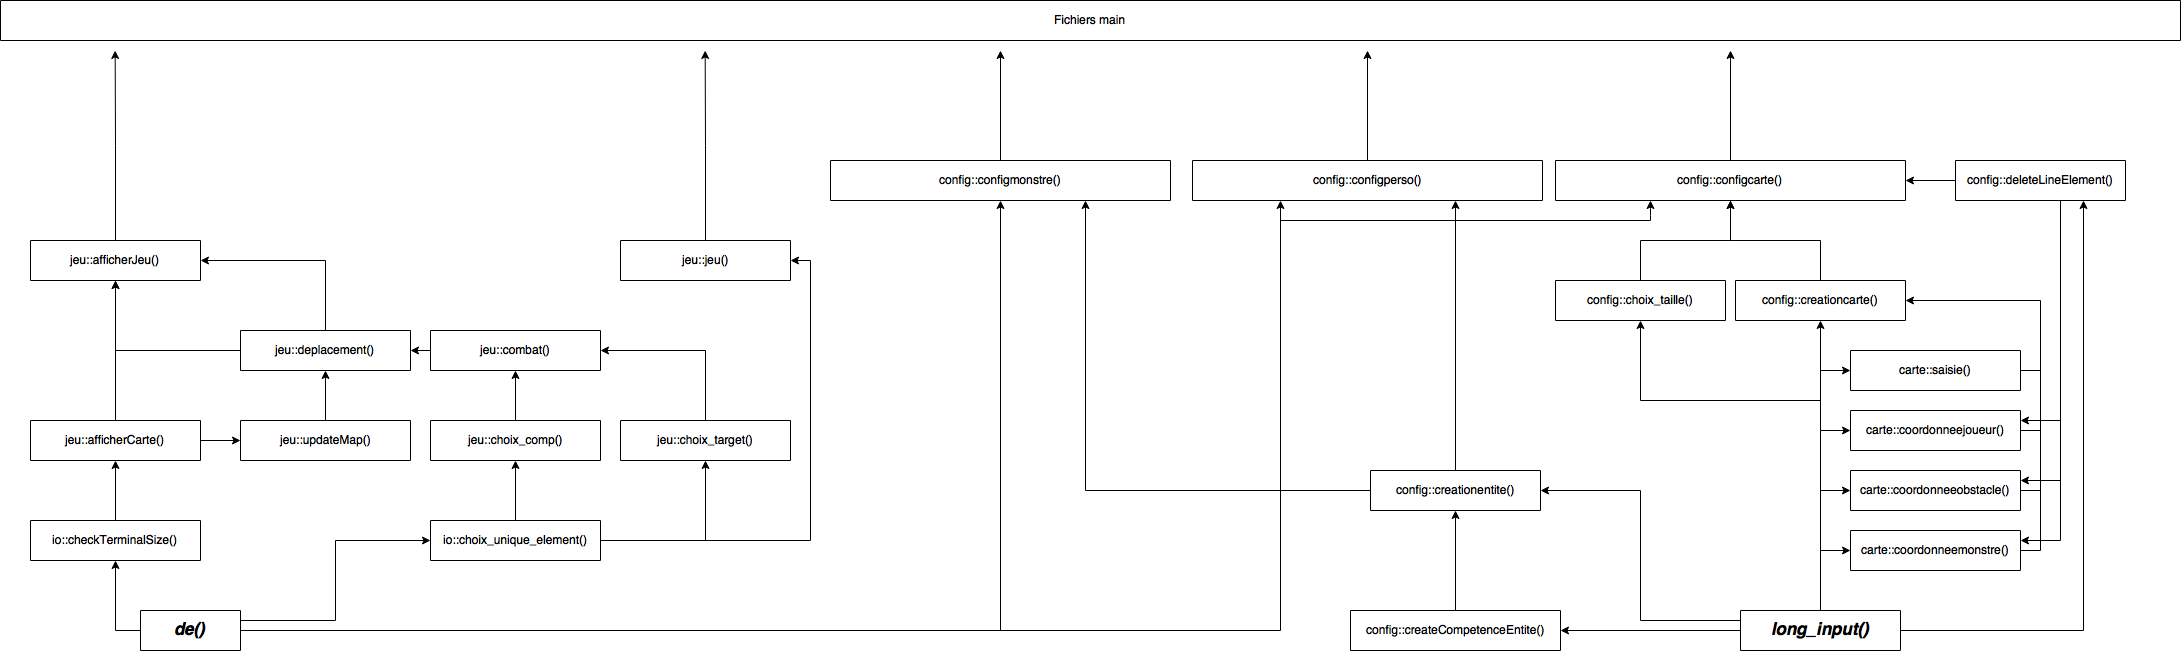
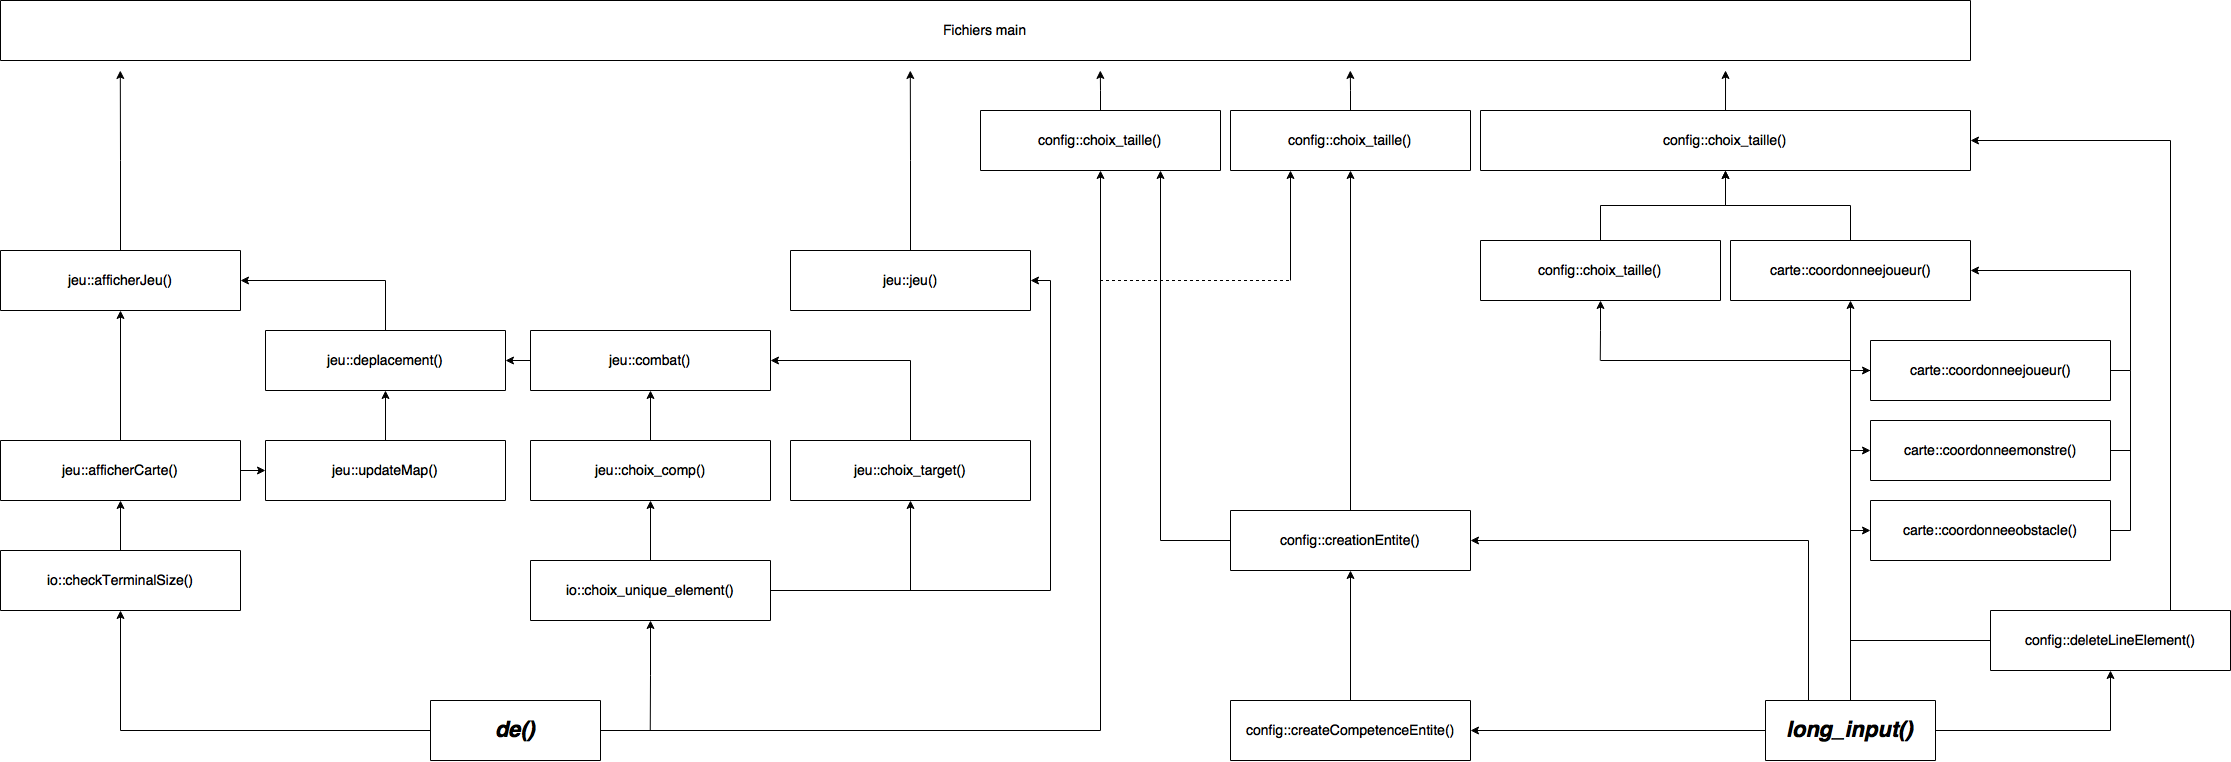
graphe, combat, et shenanigans
interface de combat dans bandeau à 50-60%

diff --git a/sources/io.cpp b/sources/io.cpp
@@ -234,8 +234,6 @@ namespace io
 				TermPosX++;
 				displayX++;
 			}
-			if (displayX == t && TermPosX != TermWidth-1)
-				std::cout << RED << "$" << BLANK;
 			while (TermPosX < TermWidth - 1)
 			{
 				std::cout << ' ';
@@ -252,6 +250,7 @@ namespace io
 
 	void updateMap(Carte& jeu_carte, std::pair<int,int> newPlayerPos)
 	{
+		// Si le joueur sort des "barrières" de la map affichée
 		if (    newPlayerPos.first >= mapPositionY + TermHeight - 6
 			|| newPlayerPos.first < mapPositionY
 			|| newPlayerPos.second >= mapPositionX + TermWidth
@@ -270,6 +269,7 @@ namespace io
 			}
 			return;
 		}
+		jeu_carte.echangerContenuCase(currentPlayerPosition.first, currentPlayerPosition.second, newPlayerPos.second, newPlayerPos.first);
 		printf("\033[0;0H");
 		if (currentPlayerPosition.second != mapPositionY)
 			printf("\033[%iB", currentPlayerPosition.second - mapPositionY);
@@ -284,7 +284,6 @@ namespace io
 		if (newPlayerPos.second == mapPositionX)
 			printf("\033[1D");
 		cout << RED << 'X' << BLANK << flush;
-		jeu_carte.echangerContenuCase(currentPlayerPosition.first, currentPlayerPosition.second, newPlayerPos.second, newPlayerPos.first);
 		currentPlayerPosition.first = newPlayerPos.second;
 		currentPlayerPosition.second = newPlayerPos.first;
 		return;
@@ -406,6 +405,43 @@ namespace io
 		printf("\033[%dC", TermWidth/2);	// Droite de TermWidth-2 cases
 	}
 
+	void updateMessage(std::string nouveauMessage, int pos)
+	{
+		if (pos <= 0 || pos > 4)
+			pos = 3;
+		// Variables utilisées ici
+		int messagePositionY = TermHeight-5+pos;
+		char delimiteur = '%';
+		std::string couleurDelimiteur = BLUE;
+
+		if (nouveauMessage.size() > TermWidth-2)
+			nouveauMessage = nouveauMessage.substr(0,TermWidth - 5)+"...";
+
+		int deplacementNecessaire = TermWidth - 2 - nouveauMessage.size();
+
+		// On remet le curseur au debut du terminal
+		// printf("\033[1;1H");
+		// On descend jusqu'à la ligne demandée
+		printf("\033[%i;1H", messagePositionY);
+
+		// On affiche
+		cout << couleurDelimiteur;
+		cout << delimiteur;
+		cout << BLANK;
+		cout << std::string(deplacementNecessaire/2, ' ');
+		cout << nouveauMessage;
+		cout << std::string(deplacementNecessaire/2 + deplacementNecessaire%2, ' ');
+		cout << couleurDelimiteur;
+		cout << delimiteur;
+		cout << BLANK;
+		cout << '\r';
+
+		// On remet le curseur au milieu du message
+		printf("\033[%d;1H", TermHeight);
+		printf("\033[2A");
+		printf("\033[%dC", TermWidth/2);
+	}
+
 	void checkTerminalSize()
 	{
 		// Met à jour la taille du terminal
@@ -488,7 +524,9 @@ namespace io
 		{
 			if (vect_entite[i].is_personnage())
 			{
-				vect_entite[i].afficher_combat();
+				std::pair<std::string,std::string> res = vect_entite[i].afficher_combat();
+				updateMessage(res.first,1);
+				updateMessage(res.second,2);
 			}
 		}
 
@@ -496,7 +534,9 @@ namespace io
 		{
 			if (!vect_entite[i].is_personnage())
 			{
-				vect_entite[i].afficher_combat();
+				std::pair<std::string,std::string> res = vect_entite[i].afficher_combat();
+				updateMessage(res.first,3);
+				updateMessage("Choisissez une action avec [1-4]",4);
 			}
 		}
 	}

diff --git a/sources/fonctionsjeu.cpp b/sources/fonctionsjeu.cpp
@@ -220,21 +220,29 @@ void jeu::deplacement(int & result)
 	}
 
 	///Combat, à tester
-//	string content = jeu_carte.getPlateau()[x][y];
-//
-//	cout << "contenu case: " << content << "\n";
-//
-//	if (content.substr(0, 1) == "m")
-//	{
-//		cout << "On rentre en mode combat\n";
-//		result = combat(content);
-//	}
+	string content = jeu_carte.getPlateau()[x][y];
+
+	if (content[0] == 'm')
+	{
+		try
+		{
+			result = combat(content.substr(0,content.find("/")));
+		}
+		catch (int combatError)
+		{
+			throw combatError;
+		}
+	}
 }
 
 
 int jeu::combat(string id_monstre)
 {
-	puts("** Combat **");
+	updateMessage("** Combat **",1);
+	updateMessage("",2);
+	updateMessage("",3);
+	updateMessage("Appuyez sur une touche pour continuer.",4);
+	de();
 
 	vector<entite> vect_entite;
 	vector<entite>::iterator ite;
@@ -243,8 +251,8 @@ int jeu::combat(string id_monstre)
 
 	if (loading == false)
 	{
-        puts("Un problème au niveau du chargement des entités est intervenu. Retour à la carte...");
-        return 1;
+        	updateMessage("Un problème au niveau du chargement des entités est intervenu. Retour à la carte...",1);
+        	return 1;
 	}
 
 	vector<int> vect_p;
@@ -264,12 +272,16 @@ int jeu::combat(string id_monstre)
 			if ((* ite).getAlive() == true)
 			{
 				aff_combat(vect_entite);	//Affichage infos utiles acteurs
-
-				comp_util = choix_comp(* ite);	//Choix compétence
-
-				target = choix_target(comp_util, (* ite), vect_entite, vect_p);	//Choix cible
-
-				sortie = appliquer_comp((* ite), target, vect_entite, comp_util, nb_players, nb_monsters);	//Effet compétence
+				try
+				{
+					comp_util = choix_comp(* ite);	//Choix compétence
+					target = choix_target(comp_util, (* ite), vect_entite, vect_p);	//Choix cible
+					sortie = appliquer_comp((* ite), target, vect_entite, comp_util, nb_players, nb_monsters);	//Effet compétence
+				}
+				catch (int erreurCiblage)
+				{
+					throw erreurCiblage;
+				}
 			}
 		}
 	}
@@ -340,27 +352,25 @@ competence jeu::choix_comp(entite & indiv)
 
 	if (indiv.is_personnage())	//Personnage
 	{
-		puts("\n- Choix de compétence -");
 		try
 		{
-			choix_unique_element(comp_util, indiv.getSkillVect(), 1);	//Choix manuel
+			choix_unique_element(comp_util, indiv.getSkillVect(), 1, 0);	//Choix manuel
 		}
 		catch (int cUEError)
 		{
-			quitGame();
+			throw cUEError;
 		}
 
 		while (indiv.enleverMana(comp_util.getManaCost()) == false)
 		{
-			puts("Vous n'avez pas assez de mana pour utiliser cette compétence!");
-			puts("- Choix de compétence -");
+			updateMessage("Vous n'avez pas assez de mana pour utiliser cette compétence!",4);
 			try
 			{
-				choix_unique_element(comp_util, indiv.getSkillVect(), 1);	//Choix manuel
+				choix_unique_element(comp_util, indiv.getSkillVect(), 1, 0);	//Choix manuel
 			}
 			catch (int cUEError)
 			{
-				quitGame();
+				throw cUEError;
 			}
 		}
 
@@ -395,7 +405,7 @@ entite jeu::choix_target(competence comp_util, entite & indiv, vector<entite> & 
 			}
 			catch (int cUEError)
 			{
-				quitGame();
+				throw cUEError;
 			}
 		}
 		else	//Monstre

diff --git a/headers/io.h b/headers/io.h
@@ -184,10 +184,12 @@ namespace io
  	*/
  	extern void afficherMouvements(std::string message, std::string deplacements_possibles, std::string erreur_deplacement);
 
+	extern void updateMessage(std::string s, int pos);
+
 	////////////////////////////////////////////////////////////////////////////////////////////////
 	////////////////////////////////////////////////////////////////////////////////////////////////
 	////////////////////////////////////////////////////////////////////////////////////////////////
-	//////////////////////////////////// MISCELLANEOUS FONCTIONS ////////////////////////////////////
+	//////////////////////////////////// MISCELLANEOUS FONCTIONS ///////////////////////////////////
 	////////////////////////////////////////////////////////////////////////////////////////////////
 	////////////////////////////////////////////////////////////////////////////////////////////////
 	////////////////////////////////////////////////////////////////////////////////////////////////
@@ -318,7 +320,7 @@ namespace io
 		\return L'élement choisi.
 		\sa liste_elements(), afficher(), afficher_detail()
 	*/
-	template<typename T> void choix_unique_element(T & element, std::vector<T> vect_element, bool combat)
+	template<typename T> void choix_unique_element(T & element, std::vector<T> vect_element, bool combat, bool aff = 1)
 	{
 		std::string type_name = typeid(T).name();						//String à partir du type appelant
 
@@ -330,9 +332,10 @@ namespace io
 		while (1)
 		{
 			std::transform(type_name.begin(), type_name.end(), type_name.begin(), ::tolower);
-			std::cout << "Veuillez choisir votre " << type_name << " (1-9): ";
-
-			liste_elements(vect_element);                        			//Affichage des éléments parmi lesquels choisir
+			if (aff)
+				std::cout << "Veuillez choisir votre " << type_name << " (1-9): ";
+			if (aff)
+				liste_elements(vect_element);                        			//Affichage des éléments parmi lesquels choisir
 
 			char c_input;
 			try
@@ -347,7 +350,10 @@ namespace io
 
 			while (input <= 0 || input > vect_element.size())                //Input incorrect
 			{
-				std::puts("Input incorrect. Réessayez!");
+				if (aff)
+					std::puts("Input incorrect. Réessayez!");
+				else
+					updateMessage("Input incorrect. Réessayez!",4);
 				try
 				{
 					c_input = de();                                             //Input utilisateur

diff --git a/sources/entite.cpp b/sources/entite.cpp
@@ -277,27 +277,30 @@ void entite::afficher_detail()
 	cout << endl << endl;
 }
 
-void entite::afficher_combat()
+std::pair<std::string,std::string> entite::afficher_combat()
 {
 	string vie;
-	vie.append("HP: ");
+	vie.append(entiteName);
+	vie.append(" HP:");
 	vie.append(toString(entiteHpCurrent));
 	vie.append("/");
 	vie.append(toString(entiteHpMax));
+	vie.append("; ");
 
-	cout << endl << " " << entiteName << endl;
-	cout << "" << vie << endl;
+	std::string s = "";
 
 	if (this -> getID().substr(0, 1) != "m")
 	{
-		cout << "MP: " << entiteManaCurrent << "/" << entiteManaMax << endl;
+		vie.append(std::string("MP:"+to_string(entiteManaCurrent)+"/"+to_string(entiteManaMax)));
 
 		for (int i = 0; i < getSkillVect().size(); i++)
 		{
-			getSkillVect()[i].afficher_detail();
+			s += std::string(to_string(i+1)+":"+getSkillVect()[i].afficher_detail_combat());
+			if (i != getSkillVect().size()-1)
+				s+= " ";
 		}
 	}
-	cout << endl;
+	return std::make_pair(vie,s);
 }
 
 

diff --git a/sources/carte.cpp b/sources/carte.cpp
@@ -714,8 +714,8 @@ void Carte::echangerContenuCase(int i1, int j1, int i2, int j2)
 {
 	std::string old_content = plateau[i1][j1];
 	std::string new_content = plateau[i2][j2];
-	if (plateau[i2][j2] == "v")	// Si la case a atteindre est vide
-		plateau[i2][j2] = old_content;	// On met le joueur la
+	if (plateau[i2][j2][0] == 'v')	// Si la case a atteindre est vide
+		plateau[i2][j2] = "joueur";	// On met le joueur la
 	else	// Sinon (la case contient qqchose qui a été rendu accessible (monstre par exemple)).
 		plateau[i2][j2] = std::string(plateau[i2][j2]+"/"+old_content);	// On rajoute "/joueur" a la fin de la chaîne
 	if (old_content == "joueur")	// Si la case d'origine ne contenait que le joueur

diff --git a/sources/competence.cpp b/sources/competence.cpp
@@ -98,3 +98,19 @@ void competence::afficher_detail()
 		cout << ", coût en mana: " << this->skillManaCost << endl;
 	}
 }
+
+std::string competence::afficher_detail_combat()
+{
+	std::string vect;
+	vect.append(this->skillName);
+	if (this->skillDamage < 0)
+		vect.append( std::string( "(S:"+to_string( -1 * (this->skillDamage) ) ) );
+	else
+		vect.append(std::string("(D:"+to_string(this->skillDamage)));
+	if (this->skillManaCost < 0)
+		vect.append(std::string(",GMP:"+to_string(-1 * (this->skillManaCost))));
+	else
+		vect.append(std::string(",CMP:"+to_string(this->skillManaCost)));
+	vect.append(")");
+	return vect;
+}

diff --git a/headers/competence.h b/headers/competence.h
@@ -102,6 +102,8 @@ public:
 	*/
 	void afficher_detail();
 
+	std::string afficher_detail_combat();
+
 	//! Conversion en string
 	/*!
         Permet de convertir les caractéristiques d'une compétence en chaîne de caractère en vue de son écriture dans un fichier

diff --git a/headers/entite.h b/headers/entite.h
@@ -146,7 +146,7 @@ public:
 	/*!
 		Permet de limiter l'affichage d'une entité à ses caractéristiques utiles en combat
 	*/
-	void afficher_combat();
+	std::pair<std::string,std::string> afficher_combat();
 
 	//! Enlève x points de vie a l'entite.
 	/*!
